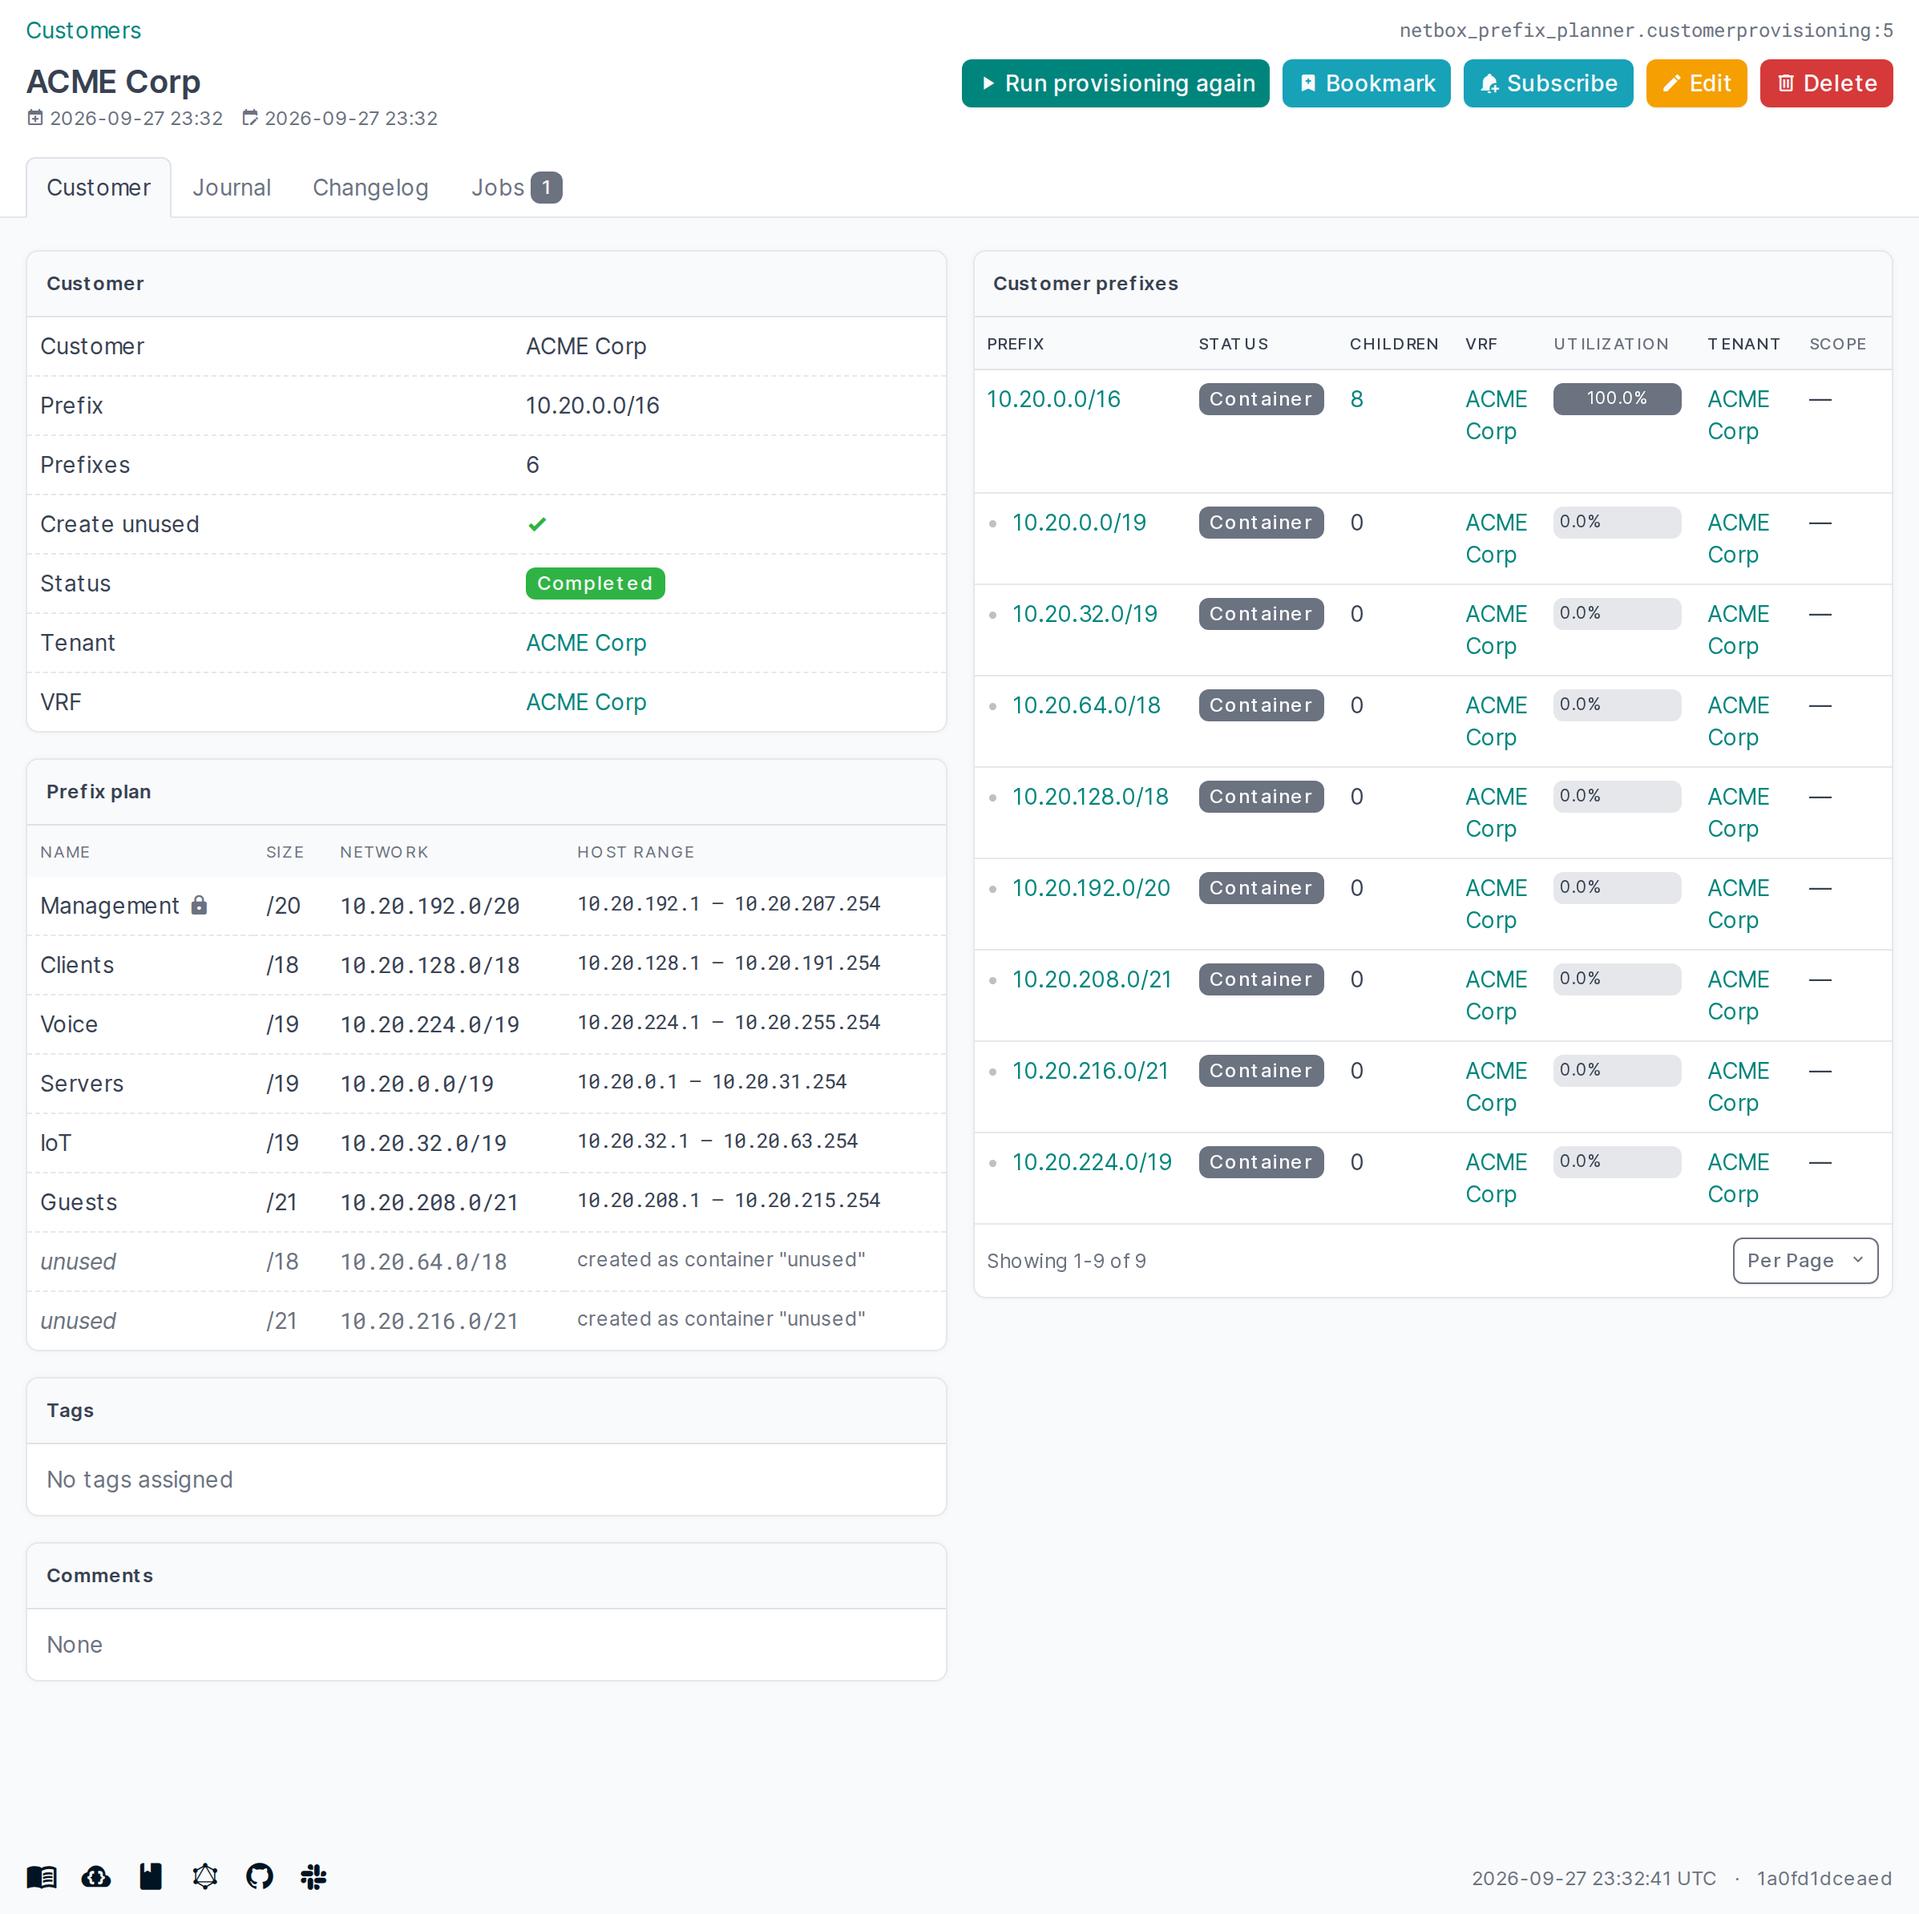
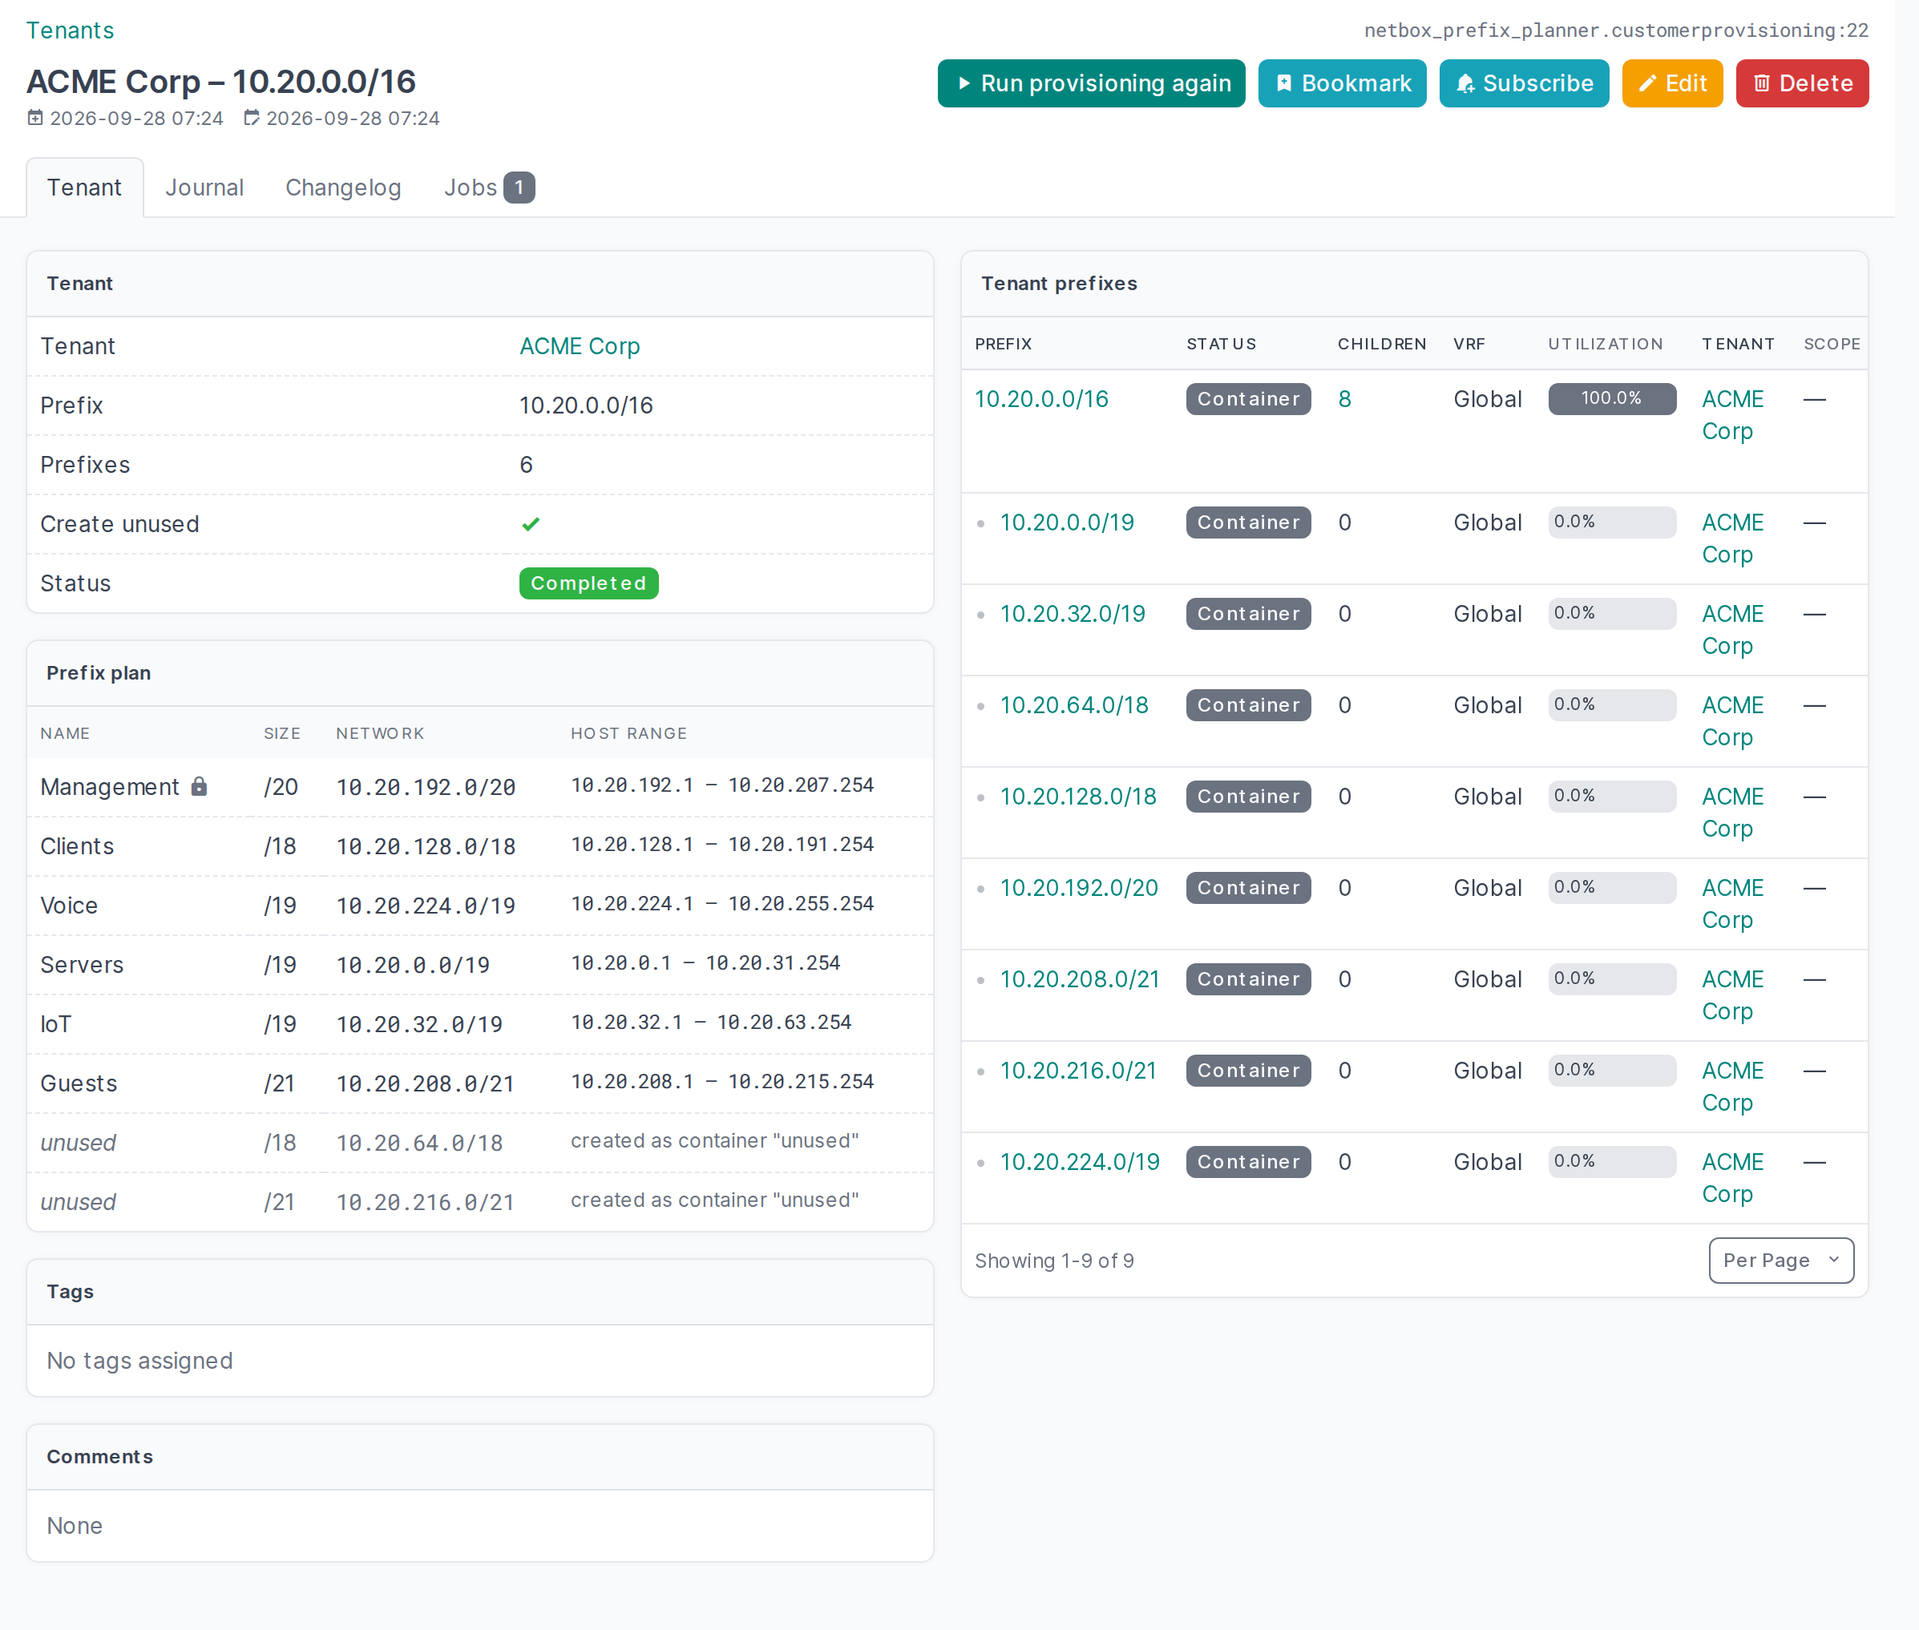
Prefix Planner 0.4.0: release tenant selection without VRF creation
Hide the VRF row on plans that have none, refresh the provisioned-tenant
screenshot.

diff --git a/prefix-planner/netbox_prefix_planner/views.py b/prefix-planner/netbox_prefix_planner/views.py
@@ -18,7 +18,14 @@ class CustomerProvisioningPanel(ObjectAttributesPanel):
     segment_count = attrs.NumericAttr("segment_count", label="Prefixes")
     create_unused = attrs.BooleanAttr("create_unused", label="Create unused")
     status = attrs.ChoiceAttr("status")
-    vrf = attrs.RelatedObjectAttr("vrf", linkify=True, label="VRF (before 0.4.0)")
+    vrf = attrs.RelatedObjectAttr("vrf", linkify=True, label="VRF")
+
+    def get_context(self, context):
+        ctx = super().get_context(context)
+        # Only plans provisioned before 0.4.0 have a VRF - don't show an empty row on newer ones
+        if ctx["object"].vrf_id is None:
+            ctx["attrs"] = [a for a in ctx["attrs"] if a["label"] != "VRF"]
+        return ctx
 
 
 @register_model_view(CustomerProvisioning, "list", path="", detail=False)

diff --git a/prefix-planner/netbox_prefix_planner/__init__.py b/prefix-planner/netbox_prefix_planner/__init__.py
@@ -1,6 +1,6 @@
 from netbox.plugins import PluginConfig
 
-__version__ = "0.4.0.dev0"
+__version__ = "0.4.0"
 
 
 class PrefixPlannerConfig(PluginConfig):

diff --git a/prefix-planner/README.md b/prefix-planner/README.md
@@ -230,7 +230,7 @@ pytest
 
 ## Changelog
 
-- **Unreleased**: choose an existing tenant or add a new one; "customers" are now "tenants" (UI, URLs and API:
+- **0.4.0**: choose an existing tenant or add a new one; "customers" are now "tenants" (UI, URLs and API:
   `/api/plugins/prefix-planner/tenants/`, `customer_name` → `tenant_name`, `tenant` writable); no VRF is created
   any more and the `vrf_per_customer` setting is gone; overlapping blocks are rejected when saving; a tenant can
   have several plans.
